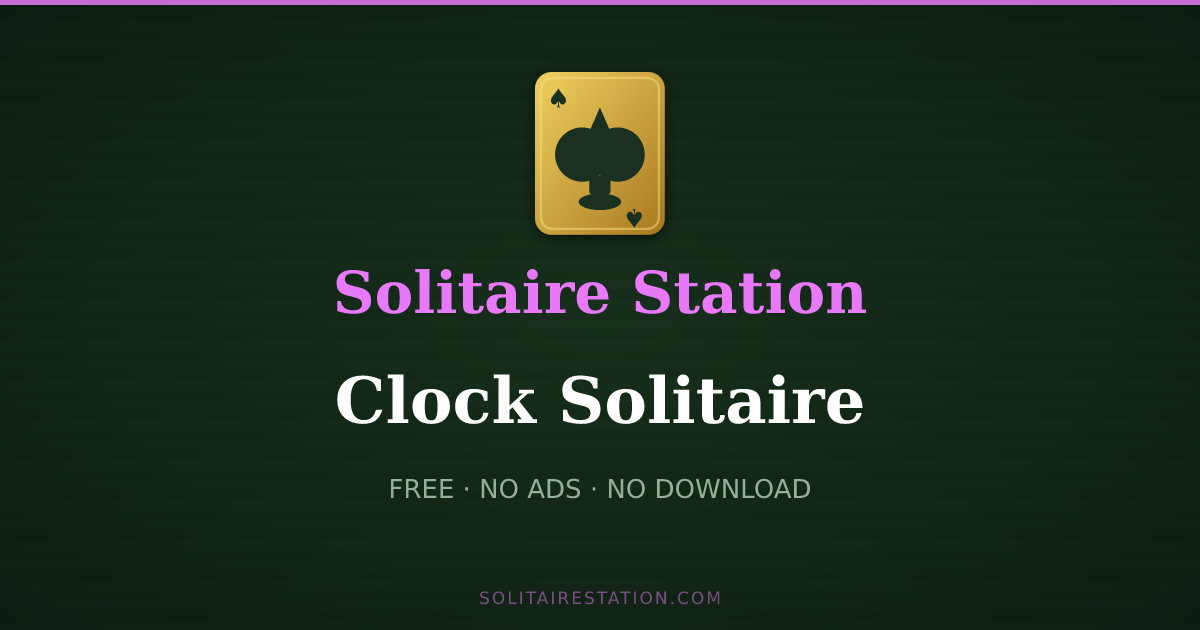
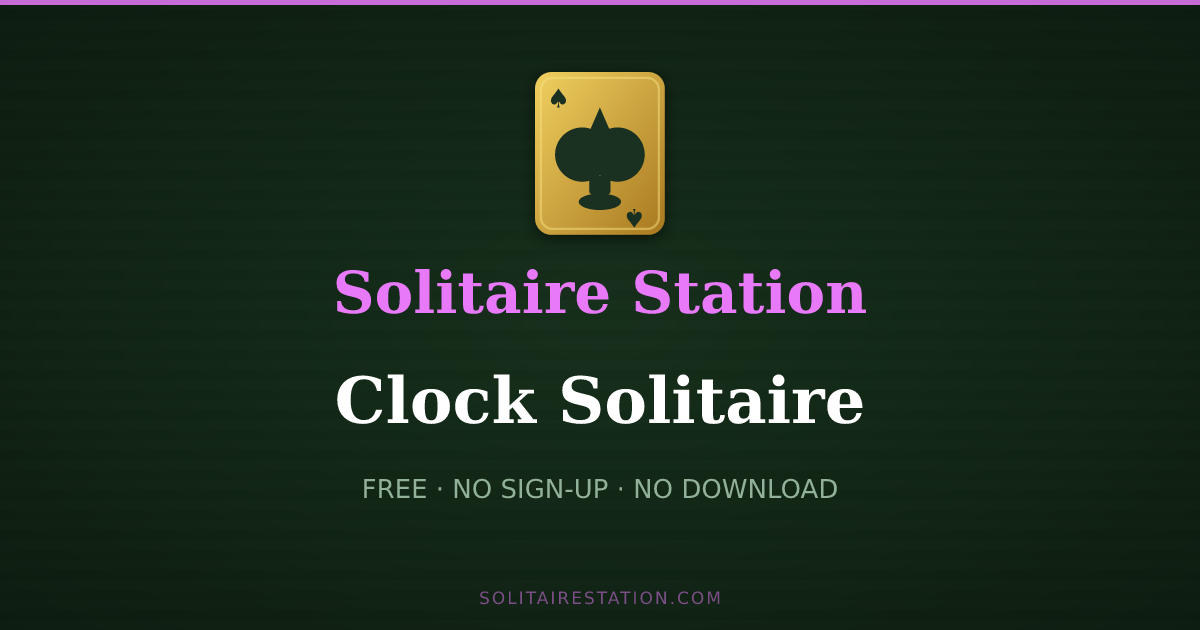
Replace NO ADS with NO SIGN-UP on OG images, bump to v=6

Changed region(s): [[0.3083, 0.754, 0.7092, 0.8143]]

diff --git a/src/routes/__root.tsx b/src/routes/__root.tsx
@@ -107,7 +107,7 @@ export const Route = createRootRouteWithContext<{ queryClient: QueryClient }>()(
       { property: "og:description", content: "16 free solitaire games with customizable card backs and face styles — hints, undo, and auto-save included. No download or sign-up. Works on any device." },
       { property: "og:site_name", content: "Solitaire Station" },
       { property: "og:locale", content: "en_US" },
-      { property: "og:image", content: `${SITE_URL}/og/klondike.png?v=5?v=2` },
+      { property: "og:image", content: `${SITE_URL}/og/klondike.png?v=6?v=2` },
       { property: "og:image:width", content: "1200" },
       { property: "og:image:height", content: "630" },
       { property: "og:image:alt", content: "Solitaire Station — Play Free Online Solitaire Instantly" },
@@ -116,7 +116,7 @@ export const Route = createRootRouteWithContext<{ queryClient: QueryClient }>()(
       { name: "twitter:url", content: `${SITE_URL}/` },
       { name: "twitter:title", content: "Solitaire Station — Play Free Online Solitaire Instantly" },
       { name: "twitter:description", content: "16 free solitaire games — customizable card designs, hints, and auto-save. Klondike, Spider, FreeCell, Golf, Mahjong, and more. No download." },
-      { name: "twitter:image", content: `${SITE_URL}/og/klondike.png?v=5?v=2` },
+      { name: "twitter:image", content: `${SITE_URL}/og/klondike.png?v=6?v=2` },
       // PWA / mobile
       { name: "theme-color", content: "#b8901e" },
       { name: "mobile-web-app-capable", content: "yes" },

diff --git a/src/routes/tripeaks.tsx b/src/routes/tripeaks.tsx
@@ -16,14 +16,14 @@ export const Route = createFileRoute("/tripeaks")({
       { property: "og:description", content: "Play free TriPeaks solitaire at Solitaire Station — clear three peaks by chaining cards one rank apart. Build streaks for bonus points. No download or sign-up." },
       { property: "og:type", content: "website" },
       { property: "og:url", content: `${SITE_URL}/tripeaks` },
-      { property: "og:image", content: `${SITE_URL}/og/tripeaks.png?v=5` },
+      { property: "og:image", content: `${SITE_URL}/og/tripeaks.png?v=6` },
       { property: "og:image:width", content: "1200" },
       { property: "og:image:height", content: "630" },
       { property: "og:image:alt", content: "Solitaire Station — Free TriPeaks Solitaire" },
       { name: "twitter:card", content: "summary_large_image" },
       { name: "twitter:title", content: "Solitaire Station — Free TriPeaks Solitaire" },
       { name: "twitter:description", content: "Play free TriPeaks solitaire at Solitaire Station — chain cards one rank apart to clear three peaks. No download or sign-up." },
-      { name: "twitter:image", content: `${SITE_URL}/og/tripeaks.png?v=5` },
+      { name: "twitter:image", content: `${SITE_URL}/og/tripeaks.png?v=6` },
     ],
     links: [
       { rel: "canonical", href: `${SITE_URL}/tripeaks` },

diff --git a/src/routes/freecell.tsx b/src/routes/freecell.tsx
@@ -16,14 +16,14 @@ export const Route = createFileRoute("/freecell")({
       { property: "og:description", content: "Play free FreeCell solitaire at Solitaire Station — almost every deal is solvable. Use 4 free cells to plan your moves. Hints, undo, and auto-save." },
       { property: "og:type", content: "website" },
       { property: "og:url", content: `${SITE_URL}/freecell` },
-      { property: "og:image", content: `${SITE_URL}/og/freecell.png?v=5` },
+      { property: "og:image", content: `${SITE_URL}/og/freecell.png?v=6` },
       { property: "og:image:width", content: "1200" },
       { property: "og:image:height", content: "630" },
       { property: "og:image:alt", content: "Solitaire Station — Free FreeCell Solitaire" },
       { name: "twitter:card", content: "summary_large_image" },
       { name: "twitter:title", content: "Solitaire Station — Free FreeCell Solitaire" },
       { name: "twitter:description", content: "Play free FreeCell solitaire at Solitaire Station — almost every deal is solvable. 4 free cells, hints, undo. No download or sign-up." },
-      { name: "twitter:image", content: `${SITE_URL}/og/freecell.png?v=5` },
+      { name: "twitter:image", content: `${SITE_URL}/og/freecell.png?v=6` },
     ],
     links: [
       { rel: "canonical", href: `${SITE_URL}/freecell` },

diff --git a/src/routes/mahjong.tsx b/src/routes/mahjong.tsx
@@ -16,14 +16,14 @@ export const Route = createFileRoute("/mahjong")({
       { property: "og:description", content: "Play free Mahjong solitaire at Solitaire Station — match identical free tiles to clear all 144 from the board. Hints and auto-save. No download or sign-up." },
       { property: "og:type", content: "website" },
       { property: "og:url", content: `${SITE_URL}/mahjong` },
-      { property: "og:image", content: `${SITE_URL}/og/mahjong.png?v=5` },
+      { property: "og:image", content: `${SITE_URL}/og/mahjong.png?v=6` },
       { property: "og:image:width", content: "1200" },
       { property: "og:image:height", content: "630" },
       { property: "og:image:alt", content: "Solitaire Station — Free Mahjong Solitaire" },
       { name: "twitter:card", content: "summary_large_image" },
       { name: "twitter:title", content: "Solitaire Station — Free Mahjong Solitaire" },
       { name: "twitter:description", content: "Play free Mahjong solitaire at Solitaire Station — match identical free tiles to clear all 144. No download or sign-up." },
-      { name: "twitter:image", content: `${SITE_URL}/og/mahjong.png?v=5` },
+      { name: "twitter:image", content: `${SITE_URL}/og/mahjong.png?v=6` },
     ],
     links: [
       { rel: "canonical", href: `${SITE_URL}/mahjong` },

diff --git a/src/routes/forty-thieves.tsx b/src/routes/forty-thieves.tsx
@@ -16,14 +16,14 @@ export const Route = createFileRoute("/forty-thieves")({
       { property: "og:description", content: "Play free Forty Thieves solitaire — two decks, 10 columns, same-suit building. Hints, undo, and auto-save." },
       { property: "og:type", content: "website" },
       { property: "og:url", content: `${SITE_URL}/forty-thieves` },
-      { property: "og:image", content: `${SITE_URL}/og/forty-thieves.png?v=5` },
+      { property: "og:image", content: `${SITE_URL}/og/forty-thieves.png?v=6` },
       { property: "og:image:width", content: "1200" },
       { property: "og:image:height", content: "630" },
       { property: "og:image:alt", content: "Solitaire Station — Free Forty Thieves Solitaire" },
       { name: "twitter:card", content: "summary_large_image" },
       { name: "twitter:title", content: "Solitaire Station — Free Forty Thieves Solitaire" },
       { name: "twitter:description", content: "Two-deck solitaire with same-suit tableau building. One card moves at a time. Can you beat all 40 thieves?" },
-      { name: "twitter:image", content: `${SITE_URL}/og/forty-thieves.png?v=5` },
+      { name: "twitter:image", content: `${SITE_URL}/og/forty-thieves.png?v=6` },
     ],
     links: [
       { rel: "canonical", href: `${SITE_URL}/forty-thieves` },

diff --git a/src/routes/pyramid.tsx b/src/routes/pyramid.tsx
@@ -16,14 +16,14 @@ export const Route = createFileRoute("/pyramid")({
       { property: "og:description", content: "Play free Pyramid solitaire at Solitaire Station — pair cards that sum to 13 to clear all 28 cards. Kings remove alone. Hints and auto-save." },
       { property: "og:type", content: "website" },
       { property: "og:url", content: `${SITE_URL}/pyramid` },
-      { property: "og:image", content: `${SITE_URL}/og/pyramid.png?v=5` },
+      { property: "og:image", content: `${SITE_URL}/og/pyramid.png?v=6` },
       { property: "og:image:width", content: "1200" },
       { property: "og:image:height", content: "630" },
       { property: "og:image:alt", content: "Solitaire Station — Free Pyramid Solitaire" },
       { name: "twitter:card", content: "summary_large_image" },
       { name: "twitter:title", content: "Solitaire Station — Free Pyramid Solitaire" },
       { name: "twitter:description", content: "Play free Pyramid solitaire at Solitaire Station — pair cards that sum to 13 to clear the pyramid. No download or sign-up." },
-      { name: "twitter:image", content: `${SITE_URL}/og/pyramid.png?v=5` },
+      { name: "twitter:image", content: `${SITE_URL}/og/pyramid.png?v=6` },
     ],
     links: [
       { rel: "canonical", href: `${SITE_URL}/pyramid` },

diff --git a/src/routes/addiction.tsx b/src/routes/addiction.tsx
@@ -16,14 +16,14 @@ export const Route = createFileRoute("/addiction")({
       { property: "og:description", content: "Arrange cards in 4 rows from 2 to King in the same suit using gaps as spaces. Up to 3 reshuffles. Hints, undo, and auto-save." },
       { property: "og:type", content: "website" },
       { property: "og:url", content: `${SITE_URL}/addiction` },
-      { property: "og:image", content: `${SITE_URL}/og/addiction.png?v=5` },
+      { property: "og:image", content: `${SITE_URL}/og/addiction.png?v=6` },
       { property: "og:image:width", content: "1200" },
       { property: "og:image:height", content: "630" },
       { property: "og:image:alt", content: "Solitaire Station — Free Addiction Solitaire" },
       { name: "twitter:card", content: "summary_large_image" },
       { name: "twitter:title", content: "Solitaire Station — Free Addiction Solitaire" },
       { name: "twitter:description", content: "Slide cards into gaps to build same-suit rows from 2 to King. Highly addictive puzzle solitaire with up to 3 reshuffles." },
-      { name: "twitter:image", content: `${SITE_URL}/og/addiction.png?v=5` },
+      { name: "twitter:image", content: `${SITE_URL}/og/addiction.png?v=6` },
     ],
     links: [
       { rel: "canonical", href: `${SITE_URL}/addiction` },

diff --git a/src/routes/bakers-game.tsx b/src/routes/bakers-game.tsx
@@ -16,14 +16,14 @@ export const Route = createFileRoute("/bakers-game")({
       { property: "og:description", content: "Play free Baker's Game solitaire at Solitaire Station — FreeCell with same-suit stacking for a tougher strategic challenge." },
       { property: "og:type", content: "website" },
       { property: "og:url", content: `${SITE_URL}/bakers-game` },
-      { property: "og:image", content: `${SITE_URL}/og/bakers-game.png?v=5` },
+      { property: "og:image", content: `${SITE_URL}/og/bakers-game.png?v=6` },
       { property: "og:image:width", content: "1200" },
       { property: "og:image:height", content: "630" },
       { property: "og:image:alt", content: "Solitaire Station — Free Baker's Game Solitaire" },
       { name: "twitter:card", content: "summary_large_image" },
       { name: "twitter:title", content: "Solitaire Station — Free Baker's Game Solitaire" },
       { name: "twitter:description", content: "Play free Baker's Game — FreeCell with same-suit stacking, hints, undo. No download or sign-up." },
-      { name: "twitter:image", content: `${SITE_URL}/og/bakers-game.png?v=5` },
+      { name: "twitter:image", content: `${SITE_URL}/og/bakers-game.png?v=6` },
     ],
     links: [
       { rel: "canonical", href: `${SITE_URL}/bakers-game` },

diff --git a/src/routes/scorpion.tsx b/src/routes/scorpion.tsx
@@ -16,14 +16,14 @@ export const Route = createFileRoute("/scorpion")({
       { property: "og:description", content: "Play free Scorpion Solitaire — move face-up groups onto same-suit sequences, complete four K-to-A runs to win. No sign-up needed." },
       { property: "og:type", content: "website" },
       { property: "og:url", content: `${SITE_URL}/scorpion` },
-      { property: "og:image", content: `${SITE_URL}/og/scorpion.png?v=5` },
+      { property: "og:image", content: `${SITE_URL}/og/scorpion.png?v=6` },
       { property: "og:image:width", content: "1200" },
       { property: "og:image:height", content: "630" },
       { property: "og:image:alt", content: "Solitaire Station — Free Scorpion Solitaire" },
       { name: "twitter:card", content: "summary_large_image" },
       { name: "twitter:title", content: "Solitaire Station — Free Scorpion Solitaire" },
       { name: "twitter:description", content: "Play free Scorpion Solitaire — build four complete same-suit sequences from King to Ace. Hints, undo, auto-save." },
-      { name: "twitter:image", content: `${SITE_URL}/og/scorpion.png?v=5` },
+      { name: "twitter:image", content: `${SITE_URL}/og/scorpion.png?v=6` },
     ],
     links: [
       { rel: "canonical", href: `${SITE_URL}/scorpion` },

diff --git a/src/routes/clock.tsx b/src/routes/clock.tsx
@@ -16,14 +16,14 @@ export const Route = createFileRoute("/clock")({
       { property: "og:description", content: "Play free Clock Patience at Solitaire Station — a self-playing solitaire where cards reveal themselves around a clock face. Auto Play included." },
       { property: "og:type", content: "website" },
       { property: "og:url", content: `${SITE_URL}/clock` },
-      { property: "og:image", content: `${SITE_URL}/og/clock.png?v=5` },
+      { property: "og:image", content: `${SITE_URL}/og/clock.png?v=6` },
       { property: "og:image:width", content: "1200" },
       { property: "og:image:height", content: "630" },
       { property: "og:image:alt", content: "Solitaire Station — Free Clock Patience" },
       { name: "twitter:card", content: "summary_large_image" },
       { name: "twitter:title", content: "Solitaire Station — Free Clock Patience" },
       { name: "twitter:description", content: "Watch cards deal themselves around a clock face in this mesmerizing self-playing solitaire. Will all Kings be the last to fall?" },
-      { name: "twitter:image", content: `${SITE_URL}/og/clock.png?v=5` },
+      { name: "twitter:image", content: `${SITE_URL}/og/clock.png?v=6` },
     ],
     links: [
       { rel: "canonical", href: `${SITE_URL}/clock` },

diff --git a/src/routes/eight-off.tsx b/src/routes/eight-off.tsx
@@ -16,14 +16,14 @@ export const Route = createFileRoute("/eight-off")({
       { property: "og:description", content: "Play free Eight Off solitaire at Solitaire Station — 8 free cells and same-suit stacking make this a unique strategic challenge." },
       { property: "og:type", content: "website" },
       { property: "og:url", content: `${SITE_URL}/eight-off` },
-      { property: "og:image", content: `${SITE_URL}/og/eight-off.png?v=5` },
+      { property: "og:image", content: `${SITE_URL}/og/eight-off.png?v=6` },
       { property: "og:image:width", content: "1200" },
       { property: "og:image:height", content: "630" },
       { property: "og:image:alt", content: "Solitaire Station — Free Eight Off Solitaire" },
       { name: "twitter:card", content: "summary_large_image" },
       { name: "twitter:title", content: "Solitaire Station — Free Eight Off Solitaire" },
       { name: "twitter:description", content: "Play free Eight Off solitaire — 8 free cells, same-suit stacking, hints, undo. No download or sign-up." },
-      { name: "twitter:image", content: `${SITE_URL}/og/eight-off.png?v=5` },
+      { name: "twitter:image", content: `${SITE_URL}/og/eight-off.png?v=6` },
     ],
     links: [
       { rel: "canonical", href: `${SITE_URL}/eight-off` },

diff --git a/src/routes/golf.tsx b/src/routes/golf.tsx
@@ -16,14 +16,14 @@ export const Route = createFileRoute("/golf")({
       { property: "og:description", content: "Play free Golf solitaire at Solitaire Station — clear all 35 tableau cards by building on the waste pile ±1. Hints and auto-save." },
       { property: "og:type", content: "website" },
       { property: "og:url", content: `${SITE_URL}/golf` },
-      { property: "og:image", content: `${SITE_URL}/og/golf.png?v=5` },
+      { property: "og:image", content: `${SITE_URL}/og/golf.png?v=6` },
       { property: "og:image:width", content: "1200" },
       { property: "og:image:height", content: "630" },
       { property: "og:image:alt", content: "Solitaire Station — Free Golf Solitaire" },
       { name: "twitter:card", content: "summary_large_image" },
       { name: "twitter:title", content: "Solitaire Station — Free Golf Solitaire" },
       { name: "twitter:description", content: "Play free Golf solitaire at Solitaire Station — clear all tableau cards by playing ±1 onto the waste pile. No download or sign-up." },
-      { name: "twitter:image", content: `${SITE_URL}/og/golf.png?v=5` },
+      { name: "twitter:image", content: `${SITE_URL}/og/golf.png?v=6` },
     ],
     links: [
       { rel: "canonical", href: `${SITE_URL}/golf` },
